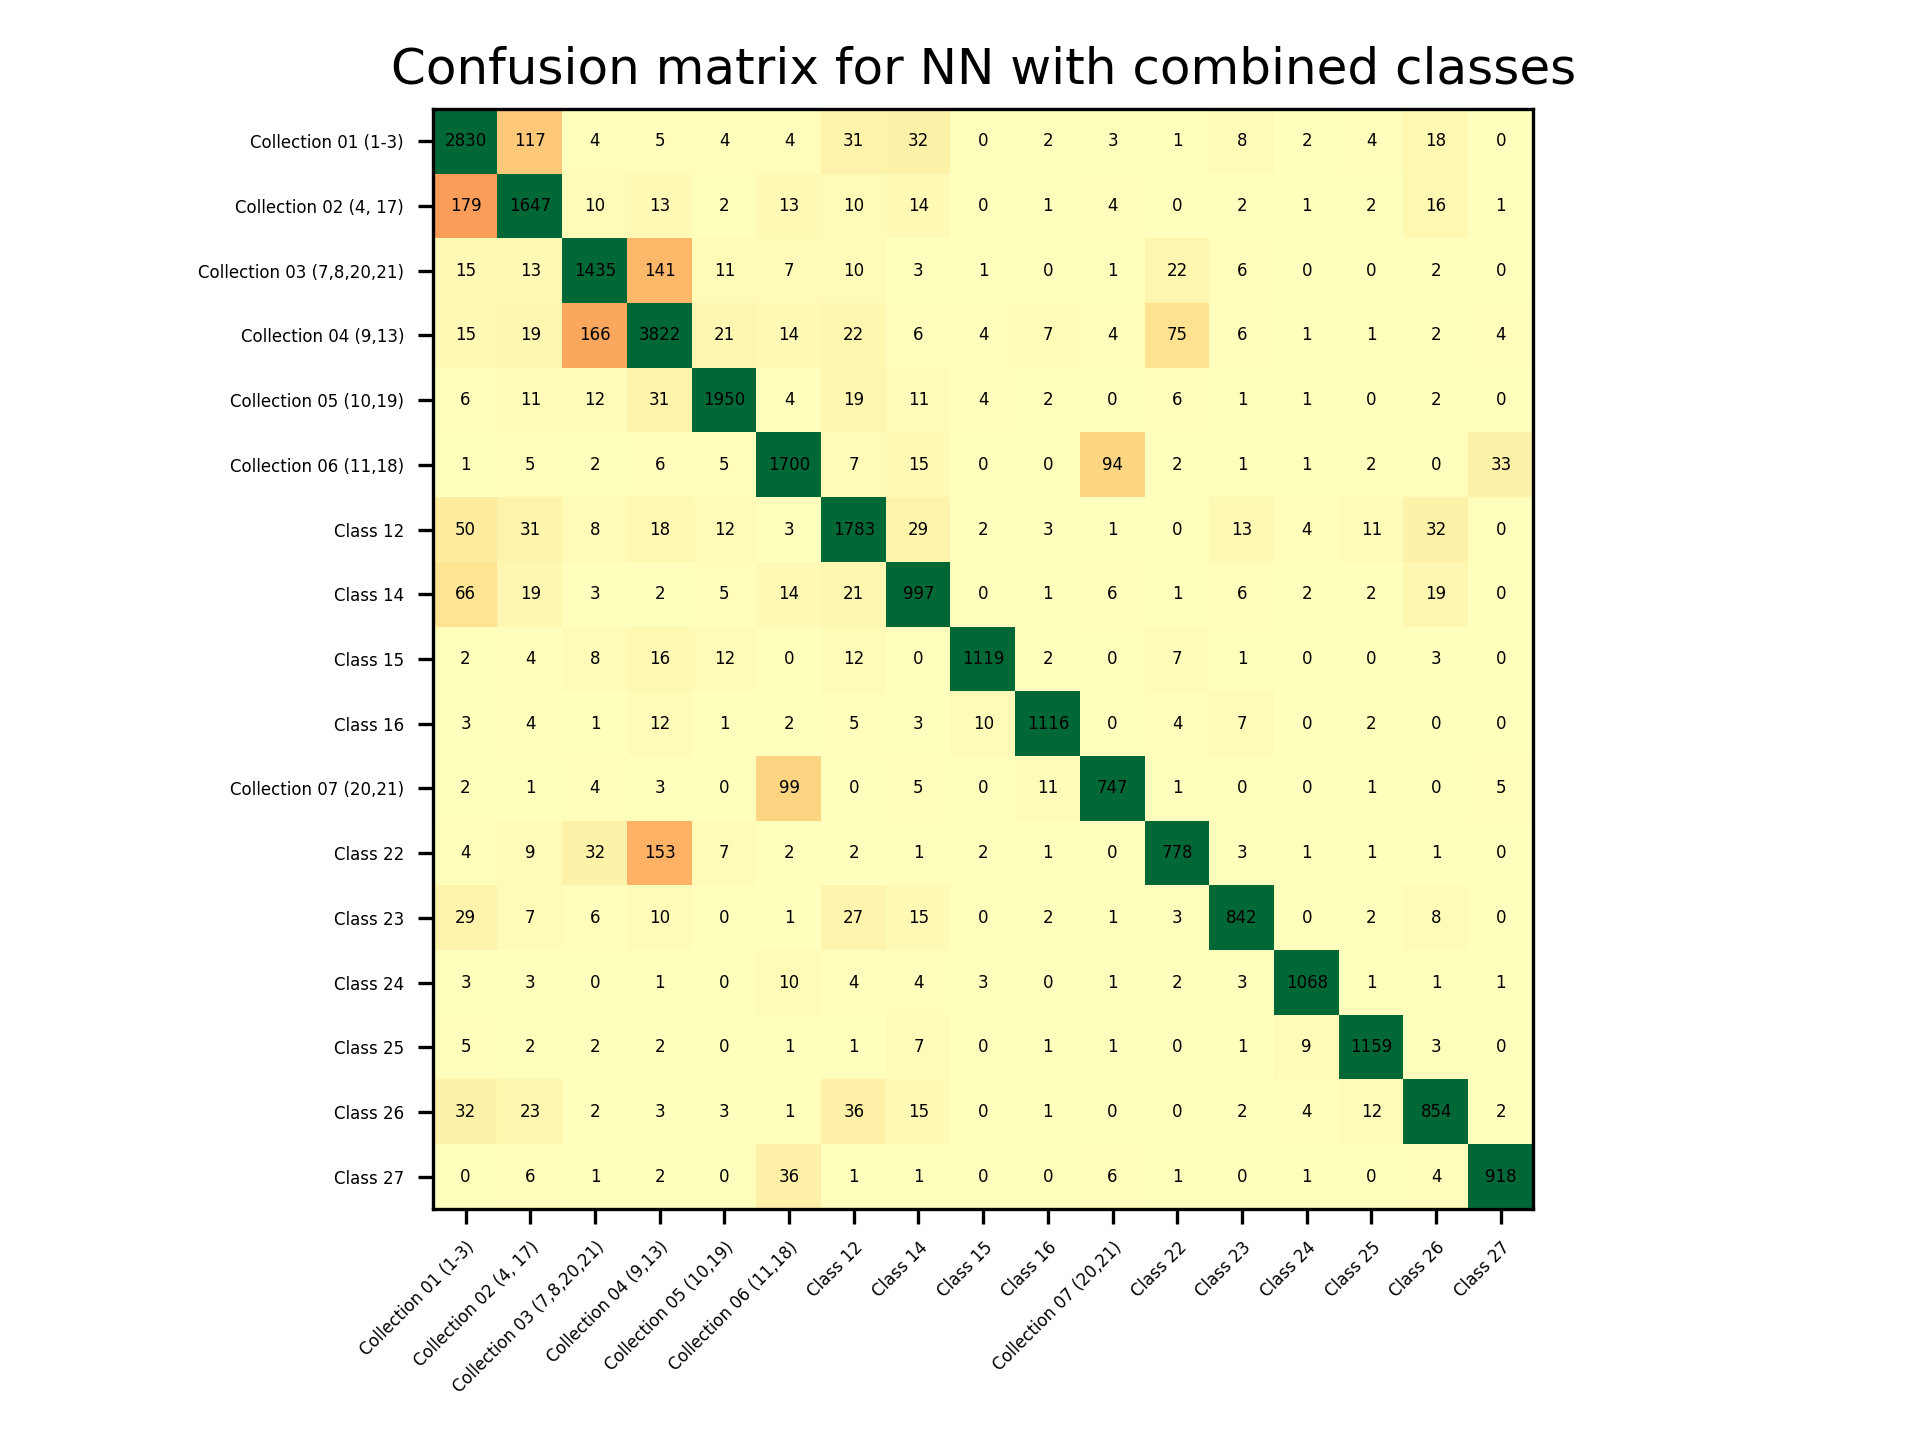
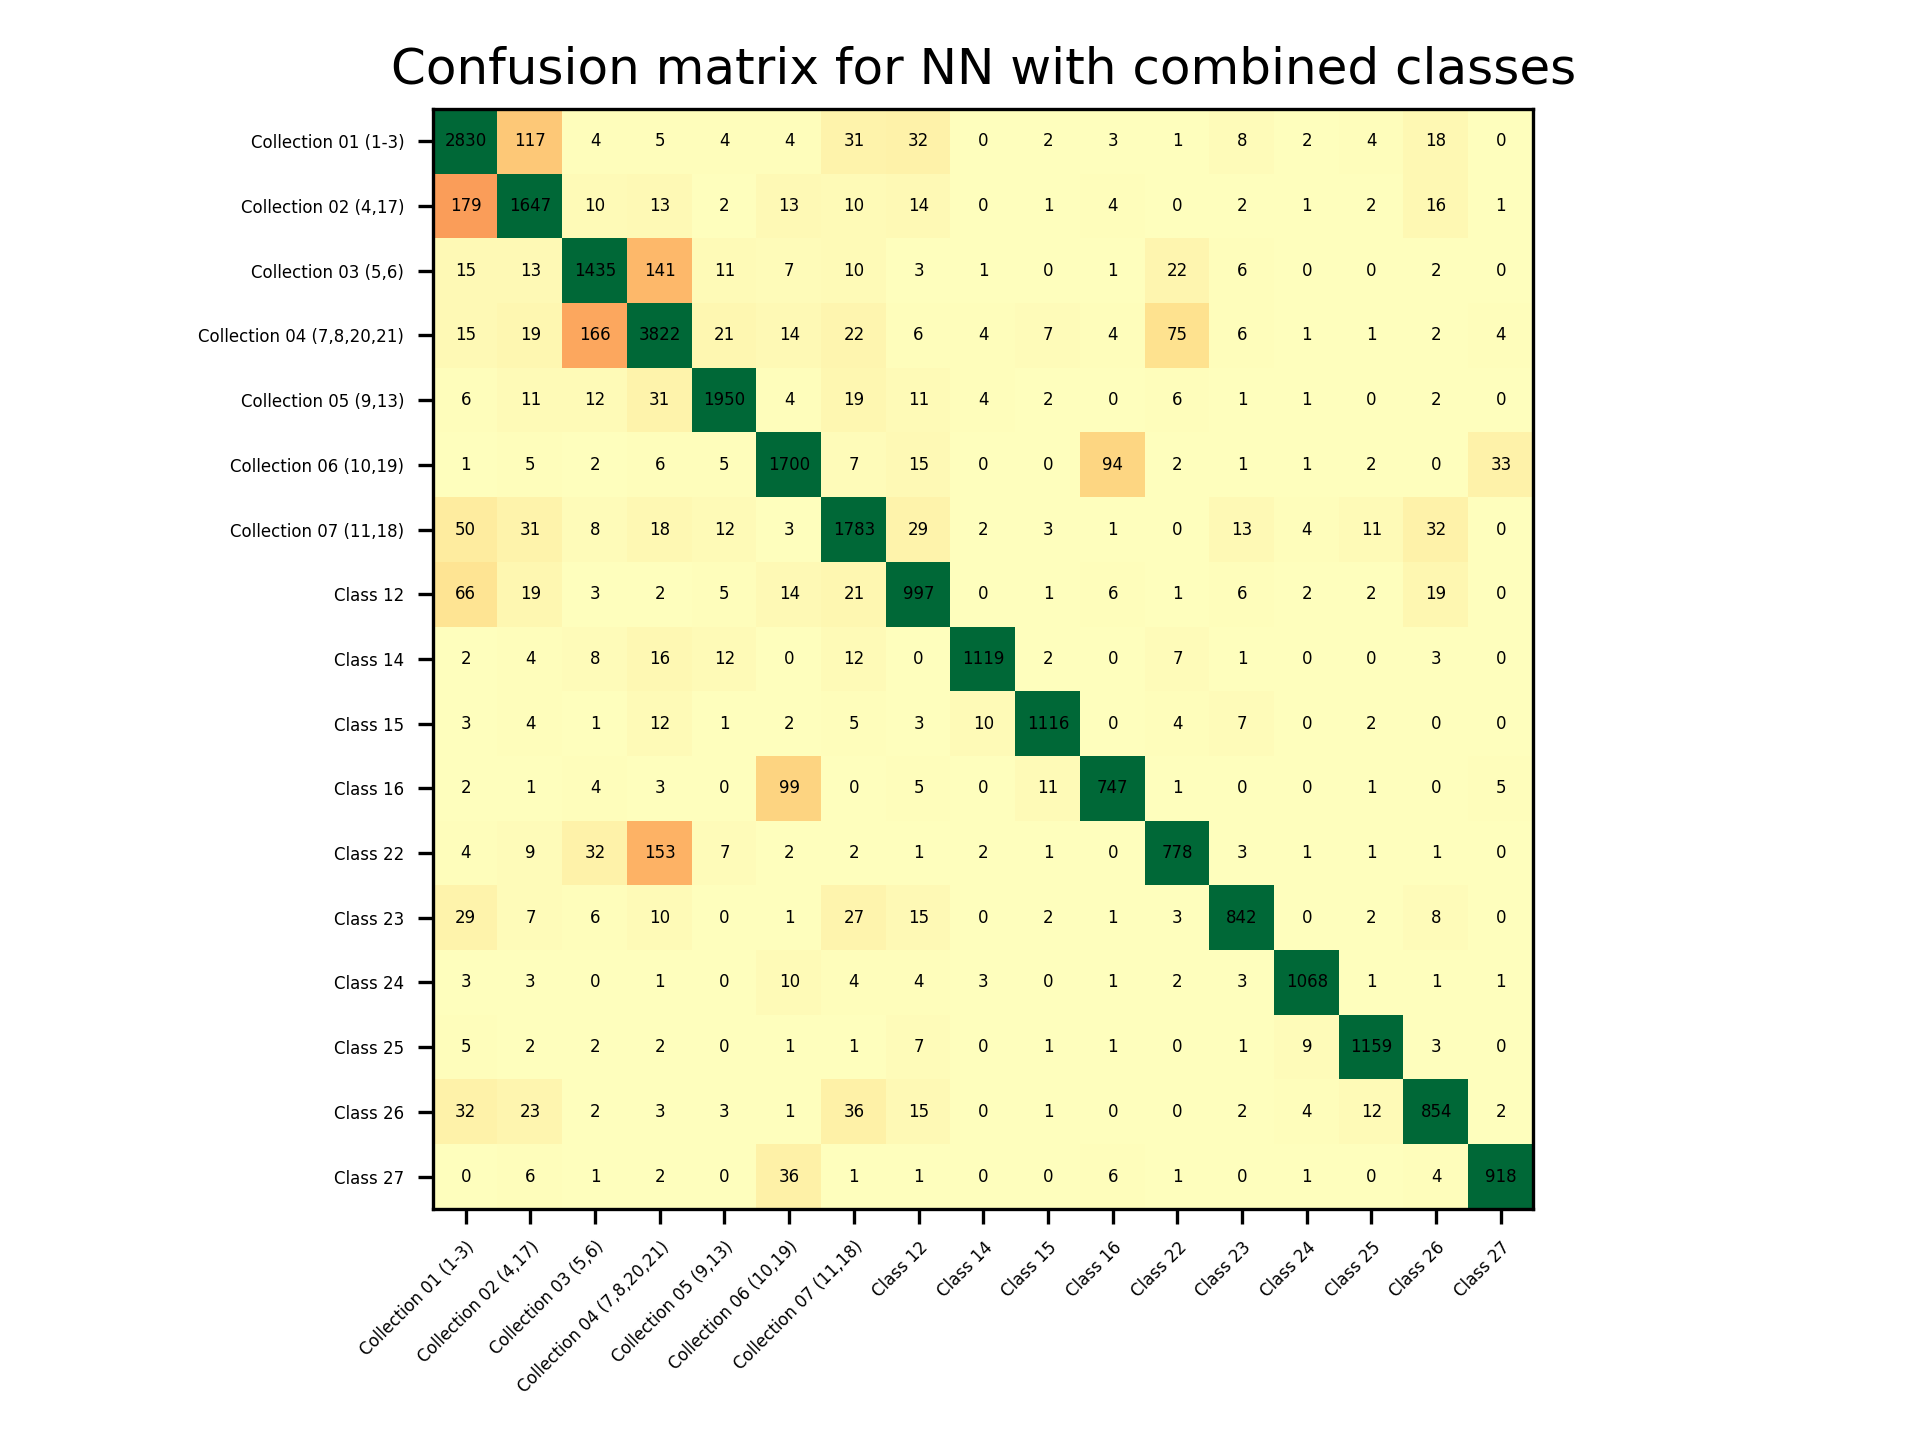
# changed collections # updated images

diff --git a/src/visualization.py b/src/visualization.py
@@ -92,10 +92,10 @@ def heatmap(_string: str):
              "Class 20",
              "Class 21", "Class 22", "Class 23", "Class 24", "Class 25", "Class 26", "Class 27"]
     else:
-        ticks = ["Collection 01 (1-3)", "Collection 02 (4,17)", "Collection 03 (5,6)", "Collection 04 (7,8)",
+        ticks = ["Collection 01 (1-3)", "Collection 02 (4,17)", "Collection 03 (5,6)", "Collection 04 (7,8,20,21)",
                  "Collection 05 (9,13)", "Collection 06 (10,19)",
                  "Collection 07 (11,18)",
-                 "Class 12", "Class 14", "Class 15", "Class 16", "Collection 08 (20,21)", "Class 22",
+                 "Class 12", "Class 14", "Class 15", "Class 16", "Class 22",
                  "Class 23", "Class 24", "Class 25", "Class 26", "Class 27"]
 
     # Show all ticks and label them with the respective list entries
@@ -112,13 +112,13 @@ def heatmap(_string: str):
             text = ax.text(j, i, _array_for_text[i, j],
                            ha="center", va="center", size=4)
 
-    ax.set_title("Confusion matrix for SVM with combined classes")
+    ax.set_title("Confusion matrix for NN with combined classes")
     fig.tight_layout()
 
     # save figure and display it
-    plt.savefig("figures/svm_heatmap_combined.png", dpi=300)
+    plt.savefig("figures/NN_heatmap_combined.png", dpi=300)
     plt.show()
 
 
 #plot_pca("data/all_data_preprocessed.csv")
-heatmap("tables/svm_confusion_matrix_combined.csv")
+heatmap("tables/nn_confusion_matrix_combined.csv")
